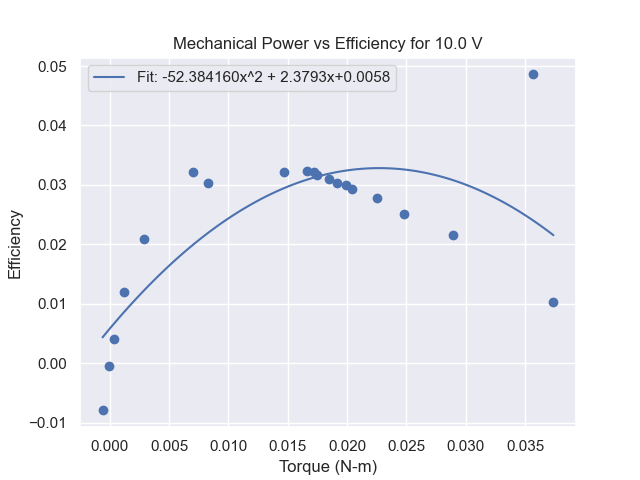
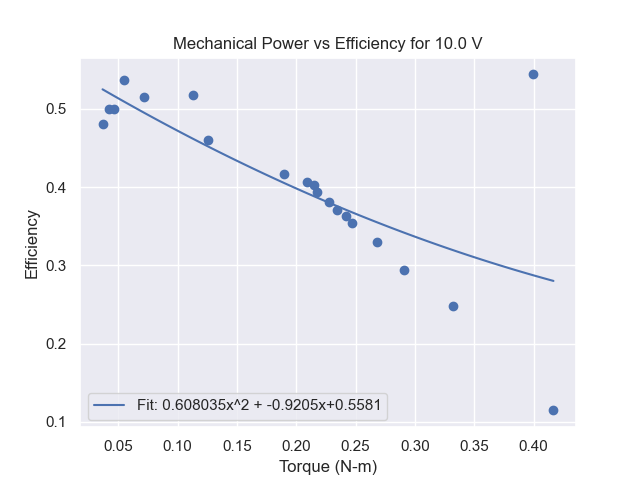
added Efficiency_vs_RPM plots

diff --git a/DA_Plotting.py b/DA_Plotting.py
@@ -8,9 +8,9 @@ import GK_Data_Analysis as DA
 my_path = os.path.dirname(os.path.abspath(__file__))
 
 # Plot the data
-
-#Torque vs RPM for each applied voltage (all plots on a single graph)
 sns.set()
+#Torque vs RPM for each applied voltage (all plots on a single graph)
+
 fig, ax = plt.subplots()
 for voltage in DA.df['Applied Voltage (v)'].unique():
     df_v = DA.df[DA.df['Applied Voltage (v)'] == voltage]
@@ -46,34 +46,19 @@ plt.title('Current Draw (A) vs Mechanical Load (N) for each applied voltage')
 plt.savefig(os.path.join(my_path, 'Plots/Current_Draw_vs_Mechanical_Load.png'))
 plt.show()
 
-#plot mechanical power vs efficiency for each applied voltage
-for voltage in DA.df['Applied Voltage (v)'].unique():
-    df_v = DA.df[DA.df['Applied Voltage (v)'] == voltage]
-    fig, ax = plt.subplots()
-    df_v = df_v.sort_values(by='Torque (N-m)')
-    coefficients = np.polyfit(df_v['Torque (N-m)'], df_v['Efficiency'], 2)
-    polynomial = np.poly1d(coefficients)
-    torque_range = np.linspace(df_v['Torque (N-m)'].min(), df_v['Torque (N-m)'].max(), 100)
-    plt.plot(torque_range, polynomial(torque_range), label=f'Fit: {coefficients[0]:.6f}x^2 + {coefficients[1]:.4f}x+{coefficients[2]:.4f}')
-    ax.scatter(df_v['Torque (N-m)'], df_v['Efficiency'])
-    plt.legend()
-    ax.set_xlabel('Torque (N-m)')
-    ax.set_ylabel('Efficiency')
-    plt.title(f'Mechanical Power vs Efficiency for {voltage} V')
-    plt.savefig(os.path.join(my_path, f'Plots/MechPwr_Vs_Efficiency/Mechanical_Power_vs_Efficiency_{voltage}V.png'))
-plt.show()
+
 
 #Seperate plots of torque vs speed for each voltage level
 for voltage in DA.df['Applied Voltage (v)'].unique():
     df_v = DA.df[DA.df['Applied Voltage (v)'] == voltage]
     fig, ax = plt.subplots()
-    coefficients = np.polyfit(df_v['Tach Reading (RPM)'], df_v['Torque (N-m)'], 1)
-    polynomial = np.poly1d(coefficients)
+    coefficients_RPM_vs_Torque = np.polyfit(df_v['Tach Reading (RPM)'], df_v['Torque (N-m)'], 1)
+    polynomial = np.poly1d(coefficients_RPM_vs_Torque)
     #add horizontal and vertical error bars
     ax.errorbar(df_v['Tach Reading (RPM)'], df_v['Torque (N-m)'], xerr=0.05, yerr=abs(df_v['Relative Error Torque']), fmt='o')
     
     ax.scatter(df_v['Tach Reading (RPM)'], df_v['Torque (N-m)'])
-    plt.plot(df_v['Tach Reading (RPM)'], polynomial(df_v['Tach Reading (RPM)']), label=f'Fit: {coefficients[0]:.6f}x + {coefficients[1]:.4f}')
+    plt.plot(df_v['Tach Reading (RPM)'], polynomial(df_v['Tach Reading (RPM)']), label=f'Fit: {coefficients_RPM_vs_Torque[0]:.6f}x + {coefficients_RPM_vs_Torque[1]:.4f}')
     plt.legend()
     ax.set_xlabel('RPM')
     ax.set_ylabel('Torque (N-m)')
@@ -89,12 +74,12 @@ for voltage in DA.df['Applied Voltage (v)'].unique():
     df_v = DA.df[DA.df['Applied Voltage (v)'] == voltage]
     fig, ax = plt.subplots()
     df_v = df_v.sort_values(by='Current Draw (A)')
-    coefficients = np.polyfit(df_v['Current Draw (A)'], df_v['Torque (N-m)'], 1)
-    polynomial = np.poly1d(coefficients)
+    coefficients_Current_vs_Torque = np.polyfit(df_v['Current Draw (A)'], df_v['Torque (N-m)'], 1)
+    polynomial = np.poly1d(coefficients_Current_vs_Torque)
     #the slope of the line is the motor torque constant
     #the average slope
-    torque_constant.append(coefficients[0])
-    plt.plot(df_v['Current Draw (A)'], polynomial(df_v['Current Draw (A)']), label=f'Fit: {coefficients[0]:.6f}x + {coefficients[1]:.4f}')
+    torque_constant.append(coefficients_Current_vs_Torque[0])
+    plt.plot(df_v['Current Draw (A)'], polynomial(df_v['Current Draw (A)']), label=f'Fit: {coefficients_Current_vs_Torque[0]:.6f}x + {coefficients_Current_vs_Torque[1]:.4f}')
     ax.scatter(df_v['Current Draw (A)'], df_v['Torque (N-m)'])
     plt.legend()
     ax.set_xlabel('Current Draw (A)')
@@ -109,11 +94,11 @@ for voltage in DA.df['Applied Voltage (v)'].unique():
     df_v = DA.df[DA.df['Applied Voltage (v)'] == voltage]
     fig, ax = plt.subplots()
     df_v = df_v.sort_values(by='Current Draw (A)')
-    coefficients = np.polyfit(df_v['Current Draw (A)'], df_v['Tach Reading (RPM)'], 1)
-    polynomial = np.poly1d(coefficients)
+    coefficients_Current_vs_RPM = np.polyfit(df_v['Current Draw (A)'], df_v['Tach Reading (RPM)'], 1)
+    polynomial = np.poly1d(coefficients_Current_vs_RPM)
     #calculate K_e for each voltage level and append to list
-    K_e.append(-voltage/(coefficients[0]* (2 * np.pi / 60)))
-    plt.plot(df_v['Current Draw (A)'], polynomial(df_v['Current Draw (A)']), label=f'Fit: {coefficients[0]:.6f}x + {coefficients[1]:.4f}')
+    K_e.append(-voltage/(coefficients_Current_vs_RPM[0]* (2 * np.pi / 60)))
+    plt.plot(df_v['Current Draw (A)'], polynomial(df_v['Current Draw (A)']), label=f'Fit: {coefficients_Current_vs_RPM[0]:.6f}x + {coefficients_Current_vs_RPM[1]:.4f}')
     ax.scatter(df_v['Current Draw (A)'], df_v['Tach Reading (RPM)'])
     plt.legend()
     ax.set_xlabel('Current Draw (A)')
@@ -122,8 +107,33 @@ for voltage in DA.df['Applied Voltage (v)'].unique():
     plt.savefig(os.path.join(my_path, f'Plots/RPM_vs_Current/RPM_vs_Current_{voltage}V.png'))
 plt.show()
 
+#plot speed vs efficiency for each applied voltage
+for voltage in DA.df['Applied Voltage (v)'].unique():
+    df_v = DA.df[DA.df['Applied Voltage (v)'] == voltage]
+    fig, ax = plt.subplots()
+    ax.scatter(df_v['Tach Reading (RPM)'], df_v['Efficiency'])
+    ax.set_xlabel('RPM')
+    ax.set_ylabel('Efficiency')
+    plt.title(f'Efficiency vs RPM for {voltage} V')
+    plt.savefig(os.path.join(my_path, f'Plots/Efficiency_vs_RPM/Efficiency_vs_RPM_{voltage}V.png'))
 
+# eff = (stall_torque - coeff_current_vs_torque[1])*speed/(coeff_current_vs_RPM[0]*voltage)
 
+#plot efficiency vs current load for each applied voltage using the above formula
+
+for voltage in DA.df['Applied Voltage (v)'].unique():
+    df_v = DA.df[DA.df['Applied Voltage (v)'] == voltage]
+    fig, ax = plt.subplots()
+    df_v = df_v.sort_values(by='Current Draw (A)')
+    coefficients_Current_vs_Torque = np.polyfit(df_v['Current Draw (A)'], df_v['Torque (N-m)'], 1)
+    coefficients_Current_vs_RPM = np.polyfit(df_v['Current Draw (A)'], df_v['Tach Reading (RPM)'], 1)
+    stall_torque = coefficients_Current_vs_Torque[1]
+    plt.plot(df_v['Current Draw (A)'], (stall_torque - coefficients_Current_vs_Torque[1])*df_v['Tach Reading (RPM)']/(coefficients_Current_vs_RPM[0]*voltage))
+    ax.set_xlabel('Current Draw (A)')
+    ax.set_ylabel('Efficiency')
+    plt.title(f'Efficiency vs Current Draw for {voltage} V')
+    plt.savefig(os.path.join(my_path, f'Plots/Efficiency_vs_Current/Efficiency_vs_Current_{voltage}V.png'))
+plt.show()
 
 #add motor properties to text file and print the file
 with open('Motor_Properties.txt', 'w') as f:
@@ -132,6 +142,38 @@ with open('Motor_Properties.txt', 'w') as f:
     f.write("The peak efficiency is " + str(DA.df['Efficiency'].max()) + " at a voltage of " + str(DA.df['Applied Voltage (v)'][DA.df['Efficiency'].idxmax()]) + "\n")
     f.write("The mean Back EMF constant is: " + str(np.mean(K_e)) + " V-s/rad\n")
     f.write("The average resistance is: " + str(DA.average_resistance) + " Ohms\n")
+
+# eff = (stall_torque - coeff_current_vs_torque[1])*speed/(coeff_current_vs_RPM[0]*voltage)
+#plot efficiency vs speed for each applied voltage using the above formula
+
+for voltage in DA.df['Applied Voltage (v)'].unique():
+    df_v = DA.df[DA.df['Applied Voltage (v)'] == voltage].sort_values(by='Tach Reading (RPM)')
+    fig, ax = plt.subplots()
+    coefficients_RPM_vs_Torque = np.polyfit(df_v['Tach Reading (RPM)'], df_v['Torque (N-m)'], 1)
+    coefficients_Current_vs_RPM = np.polyfit(df_v['Tach Reading (RPM)'], df_v['Current Draw (A)'], 1)
+    stall_torque = coefficients_RPM_vs_Torque[1]
+    print(f"Voltage: {voltage}")
+    print(f"Stall Torque: {stall_torque}")
+    print(f"RPM vs Torque Coefficients: {coefficients_RPM_vs_Torque}")
+    print(f"Current vs RPM Coefficients: {coefficients_Current_vs_RPM}")
+
+    torque_at_rpm = stall_torque + coefficients_RPM_vs_Torque[0] * df_v['Tach Reading (RPM)']
+    current_at_rpm = coefficients_Current_vs_RPM[0] * df_v['Tach Reading (RPM)'] + coefficients_Current_vs_RPM[1]
+    power_output = torque_at_rpm * df_v['Tach Reading (RPM)'] * (2*np.pi/60)
+    power_input = current_at_rpm * voltage
+    eff = power_output / power_input
+    RPM_range = np.linspace(df_v['Tach Reading (RPM)'].min(), df_v['Tach Reading (RPM)'].max(), len(eff))
+    ax.scatter(RPM_range, eff, label = r"From Trendline Coeff: $\eta = \frac{(\tau_{stall} \cdot + B\omega)\cdot \omega}{(A\omega + \omega_{0})*V}$ ")
+    #plot direct efficiency calculation
+    ax.scatter(df_v['Tach Reading (RPM)'], df_v['Efficiency'], label = r'Direct from Data: $\eta = \frac{\tau \cdot \omega}{I \cdot V}$')
+    plt.legend()
+    ax.set_ylim(0, max(eff) + 0.1)
+    ax.set_xlabel('RPM')
+    ax.set_ylabel('Efficiency')
+    plt.title(f'Efficiency vs RPM for {voltage} V')
+    plt.savefig(os.path.join(my_path, f'Plots/Efficiency_vs_RPM/Efficiency_vs_RPM_{voltage}V.png'))
+plt.show()
+    
 
 with open('Motor_Properties.txt', 'r') as f:
     print(f.read())

diff --git a/tempCodeRunnerFile.py b/tempCodeRunnerFile.py
@@ -1,1 +1,136 @@
-plt.savefig(os.path.join(my_path, 'DC-Motor-Data-Analysis/Plo
+#Torque vs RPM for each applied voltage (all plots on a single graph)
+sns.set()
+fig, ax = plt.subplots()
+for voltage in DA.df['Applied Voltage (v)'].unique():
+    df_v = DA.df[DA.df['Applied Voltage (v)'] == voltage]
+    ax.scatter(df_v['Tach Reading (RPM)'], df_v['Torque (N-m)'], label=f'{voltage} V')
+ax.set_xlabel('RPM')
+ax.set_ylabel('Torque (N-m)')
+ax.legend(title='Applied Voltage')
+plt.title('Torque vs RPM for each applied voltage')
+plt.savefig(os.path.join(my_path, 'Plots', 'Torque_vs_RPM.png'))
+plt.show()
+
+#plot motor speed vs mechanical load (N) for all voltages in one plot
+fig, ax = plt.subplots()
+for voltage in DA.df['Applied Voltage (v)'].unique():
+    df_v = DA.df[DA.df['Applied Voltage (v)'] == voltage]
+    ax.scatter(df_v['Scale Reading (g)']*0.00981, df_v['Tach Reading (RPM)'], label=f'{voltage} V')
+ax.set_xlabel('Mechanical Load (N)')
+ax.set_ylabel('RPM')
+ax.legend(title='Applied Voltage')
+plt.title('Angular Speed (RPM) vs Mechanical Load (N) for each applied voltage')
+plt.savefig(os.path.join(my_path, 'Plots/Angular_Speed_vs_Mechanical_Load.png'))
+plt.show()
+
+#plot current draw vs mechanical load (N) for all voltages in one plot
+fig, ax = plt.subplots()
+for voltage in DA.df['Applied Voltage (v)'].unique():
+    df_v = DA.df[DA.df['Applied Voltage (v)'] == voltage]
+    ax.scatter(df_v['Scale Reading (g)']*0.00981, df_v['Current Draw (A)'], label=f'{voltage} V')
+ax.set_xlabel('Mechanical Load (N)')
+ax.set_ylabel('Current Draw (A)')
+ax.legend(title='Applied Voltage')
+plt.title('Current Draw (A) vs Mechanical Load (N) for each applied voltage')
+plt.savefig(os.path.join(my_path, 'Plots/Current_Draw_vs_Mechanical_Load.png'))
+plt.show()
+
+
+
+#Seperate plots of torque vs speed for each voltage level
+for voltage in DA.df['Applied Voltage (v)'].unique():
+    df_v = DA.df[DA.df['Applied Voltage (v)'] == voltage]
+    fig, ax = plt.subplots()
+    coefficients_RPM_vs_Torque = np.polyfit(df_v['Tach Reading (RPM)'], df_v['Torque (N-m)'], 1)
+    polynomial = np.poly1d(coefficients_RPM_vs_Torque)
+    #add horizontal and vertical error bars
+    ax.errorbar(df_v['Tach Reading (RPM)'], df_v['Torque (N-m)'], xerr=0.05, yerr=abs(df_v['Relative Error Torque']), fmt='o')
+    
+    ax.scatter(df_v['Tach Reading (RPM)'], df_v['Torque (N-m)'])
+    plt.plot(df_v['Tach Reading (RPM)'], polynomial(df_v['Tach Reading (RPM)']), label=f'Fit: {coefficients_RPM_vs_Torque[0]:.6f}x + {coefficients_RPM_vs_Torque[1]:.4f}')
+    plt.legend()
+    ax.set_xlabel('RPM')
+    ax.set_ylabel('Torque (N-m)')
+    plt.title(f'Torque vs RPM for {voltage} V')
+    plt.savefig(os.path.join(my_path, f'Plots/Torque_vs_RPM/Torque_vs_RPM_{voltage}V.png'))
+plt.show()
+
+
+
+#Plot torque vs current load for each applied voltage
+torque_constant = []
+for voltage in DA.df['Applied Voltage (v)'].unique():
+    df_v = DA.df[DA.df['Applied Voltage (v)'] == voltage]
+    fig, ax = plt.subplots()
+    df_v = df_v.sort_values(by='Current Draw (A)')
+    coefficients_Current_vs_Torque = np.polyfit(df_v['Current Draw (A)'], df_v['Torque (N-m)'], 1)
+    polynomial = np.poly1d(coefficients_Current_vs_Torque)
+    #the slope of the line is the motor torque constant
+    #the average slope
+    torque_constant.append(coefficients_Current_vs_Torque[0])
+    plt.plot(df_v['Current Draw (A)'], polynomial(df_v['Current Draw (A)']), label=f'Fit: {coefficients_Current_vs_Torque[0]:.6f}x + {coefficients_Current_vs_Torque[1]:.4f}')
+    ax.scatter(df_v['Current Draw (A)'], df_v['Torque (N-m)'])
+    plt.legend()
+    ax.set_xlabel('Current Draw (A)')
+    ax.set_ylabel('Torque (N-m)')
+    plt.title(f'Torque vs Current Draw for {voltage} V')
+    plt.savefig(os.path.join(my_path, f'Plots/Torque_vs_Current/Torque_vs_Current_{voltage}V.png'))
+plt.show()
+
+#Plot the speed vs current load curve for each applied voltage
+K_e = [] #Back EMF constant
+for voltage in DA.df['Applied Voltage (v)'].unique():
+    df_v = DA.df[DA.df['Applied Voltage (v)'] == voltage]
+    fig, ax = plt.subplots()
+    df_v = df_v.sort_values(by='Current Draw (A)')
+    coefficients_Current_vs_RPM = np.polyfit(df_v['Current Draw (A)'], df_v['Tach Reading (RPM)'], 1)
+    polynomial = np.poly1d(coefficients_Current_vs_RPM)
+    #calculate K_e for each voltage level and append to list
+    K_e.append(-voltage/(coefficients_Current_vs_RPM[0]* (2 * np.pi / 60)))
+    plt.plot(df_v['Current Draw (A)'], polynomial(df_v['Current Draw (A)']), label=f'Fit: {coefficients_Current_vs_RPM[0]:.6f}x + {coefficients_Current_vs_RPM[1]:.4f}')
+    ax.scatter(df_v['Current Draw (A)'], df_v['Tach Reading (RPM)'])
+    plt.legend()
+    ax.set_xlabel('Current Draw (A)')
+    ax.set_ylabel('RPM')
+    plt.title(f'RPM vs Current Draw for {voltage} V')
+    plt.savefig(os.path.join(my_path, f'Plots/RPM_vs_Current/RPM_vs_Current_{voltage}V.png'))
+plt.show()
+
+#plot speed vs efficiency for each applied voltage
+for voltage in DA.df['Applied Voltage (v)'].unique():
+    df_v = DA.df[DA.df['Applied Voltage (v)'] == voltage]
+    fig, ax = plt.subplots()
+    ax.scatter(df_v['Tach Reading (RPM)'], df_v['Efficiency'])
+    ax.set_xlabel('RPM')
+    ax.set_ylabel('Efficiency')
+    plt.title(f'Efficiency vs RPM for {voltage} V')
+    plt.savefig(os.path.join(my_path, f'Plots/Efficiency_vs_RPM/Efficiency_vs_RPM_{voltage}V.png'))
+
+# eff = (stall_torque - coeff_current_vs_torque[1])*speed/(coeff_current_vs_RPM[0]*voltage)
+
+#plot efficiency vs current load for each applied voltage using the above formula
+
+for voltage in DA.df['Applied Voltage (v)'].unique():
+    df_v = DA.df[DA.df['Applied Voltage (v)'] == voltage]
+    fig, ax = plt.subplots()
+    df_v = df_v.sort_values(by='Current Draw (A)')
+    coefficients_Current_vs_Torque = np.polyfit(df_v['Current Draw (A)'], df_v['Torque (N-m)'], 1)
+    coefficients_Current_vs_RPM = np.polyfit(df_v['Current Draw (A)'], df_v['Tach Reading (RPM)'], 1)
+    stall_torque = coefficients_Current_vs_Torque[1]
+    plt.plot(df_v['Current Draw (A)'], (stall_torque - coefficients_Current_vs_Torque[1])*df_v['Tach Reading (RPM)']/(coefficients_Current_vs_RPM[0]*voltage))
+    ax.set_xlabel('Current Draw (A)')
+    ax.set_ylabel('Efficiency')
+    plt.title(f'Efficiency vs Current Draw for {voltage} V')
+    plt.savefig(os.path.join(my_path, f'Plots/Efficiency_vs_Current/Efficiency_vs_Current_{voltage}V.png'))
+plt.show()
+
+#add motor properties to text file and print the file
+with open('Motor_Properties.txt', 'w') as f:
+    f.write("Properties of the motor:\n")
+    f.write("The mean Motor Torque Constant is: " + str(np.mean(torque_constant)) + " N-m/A\n")
+    f.write("The peak efficiency is " + str(DA.df['Efficiency'].max()) + " at a voltage of " + str(DA.df['Applied Voltage (v)'][DA.df['Efficiency'].idxmax()]) + "\n")
+    f.write("The mean Back EMF constant is: " + str(np.mean(K_e)) + " V-s/rad\n")
+    f.write("The average resistance is: " + str(DA.average_resistance) + " Ohms\n")
+
+# eff = (stall_torque - coeff_current_vs_torque[1])*speed/(coeff_current_vs_RPM[0]*voltage)
+#plot efficiency vs speed for each applied voltage using the above formula

diff --git a/Plot_Test_Bench.py b/Plot_Test_Bench.py
@@ -1,0 +1,48 @@
+import pandas as pd
+import numpy as np
+import matplotlib.pyplot as plt
+import seaborn as sns
+import os
+import GK_Data_Analysis as DA
+"""
+#plot speed vs efficiency for each applied voltage
+for voltage in DA.df['Applied Voltage (v)'].unique():
+    df_v = DA.df[DA.df['Applied Voltage (v)'] == voltage]
+    fig, ax = plt.subplots()
+    ax.scatter(df_v['Tach Reading (RPM)'], df_v['Efficiency'])
+    ax.set_xlabel('RPM')
+    ax.set_ylabel('Efficiency')
+    plt.title(f'Efficiency vs RPM for {voltage} V')
+    #plt.savefig(os.path.join(my_path, f'Plots/Efficiency_vs_RPM/Efficiency_vs_RPM_{voltage}V.png'))
+plt.show()
+"""
+# eff = (stall_torque - coeff_current_vs_torque[1])*speed/(coeff_current_vs_RPM[0]*voltage)
+#plot efficiency vs speed for each applied voltage using the above formula
+
+for voltage in DA.df['Applied Voltage (v)'].unique():
+    df_v = DA.df[DA.df['Applied Voltage (v)'] == voltage].sort_values(by='Tach Reading (RPM)')
+    fig, ax = plt.subplots()
+    coefficients_RPM_vs_Torque = np.polyfit(df_v['Tach Reading (RPM)'], df_v['Torque (N-m)'], 1)
+    coefficients_Current_vs_RPM = np.polyfit(df_v['Tach Reading (RPM)'], df_v['Current Draw (A)'], 1)
+    stall_torque = coefficients_RPM_vs_Torque[1]
+    print(f"Voltage: {voltage}")
+    print(f"Stall Torque: {stall_torque}")
+    print(f"RPM vs Torque Coefficients: {coefficients_RPM_vs_Torque}")
+    print(f"Current vs RPM Coefficients: {coefficients_Current_vs_RPM}")
+
+    torque_at_rpm = stall_torque + coefficients_RPM_vs_Torque[0] * df_v['Tach Reading (RPM)']
+    current_at_rpm = coefficients_Current_vs_RPM[0] * df_v['Tach Reading (RPM)'] + coefficients_Current_vs_RPM[1]
+    power_output = torque_at_rpm * df_v['Tach Reading (RPM)'] * (2*np.pi/60)
+    power_input = current_at_rpm * voltage
+    eff = power_output / power_input
+    RPM_range = np.linspace(df_v['Tach Reading (RPM)'].min(), df_v['Tach Reading (RPM)'].max(), len(eff))
+    ax.scatter(RPM_range, eff, label = r"From Trendline Coeff: $\eta = \frac{(\tau_{stall} \cdot + B\omega)\cdot \omega}{(A\omega + \omega_{0})*V}$ ")
+    #plot direct efficiency calculation
+    ax.scatter(df_v['Tach Reading (RPM)'], df_v['Efficiency'], label = r'Direct from Data: $\eta = \frac{\tau \cdot \omega}{I \cdot V}$')
+    plt.legend()
+    ax.set_ylim(0, max(eff)+0.1)
+    ax.set_xlabel('RPM')
+    ax.set_ylabel('Efficiency')
+    plt.title(f'Efficiency vs RPM for {voltage} V')
+plt.show()
+    #plt.savefig(os.path.join(my_path, f'Plots/Efficiency_vs_RPM/Efficiency_vs_RPM_{voltage}V.png')

diff --git a/GK_Data_Analysis.py b/GK_Data_Analysis.py
@@ -5,7 +5,7 @@ import seaborn as sns
 import os
 
 # Load the Excel file into a df
-file_path = "GK_Data_M1.xlsx"
+file_path = "DC-Motor-Data-Analysis\GK_Data_M1.xlsx"
 df = pd.read_excel(file_path)
 
 # Display the first few rows 
@@ -20,7 +20,7 @@ print(df.isnull().sum())
 
 if 'Torque (N-m)' in df.columns:
     df['Torque (N-m)'] = df.apply(
-        lambda row: 0.00981 * (row['Scale Reading (g)']- row['Lever arm load  (end) (g)'])* 0.001 * row['Moment arm (cm)'], axis=1 # took out "- row['Lever arm load  (end) (g)']"
+        lambda row: 0.00981 * (row['Scale Reading (g)'] - row['Lever arm load  (end) (g)'])* 0.01 * row['Moment arm (cm)'], axis=1 # took out "- row['Lever arm load  (end) (g)']"
     )
 if 'Electrical Power (W)' in df.columns:
     df['Electrical Power (W)'] = df.apply(
